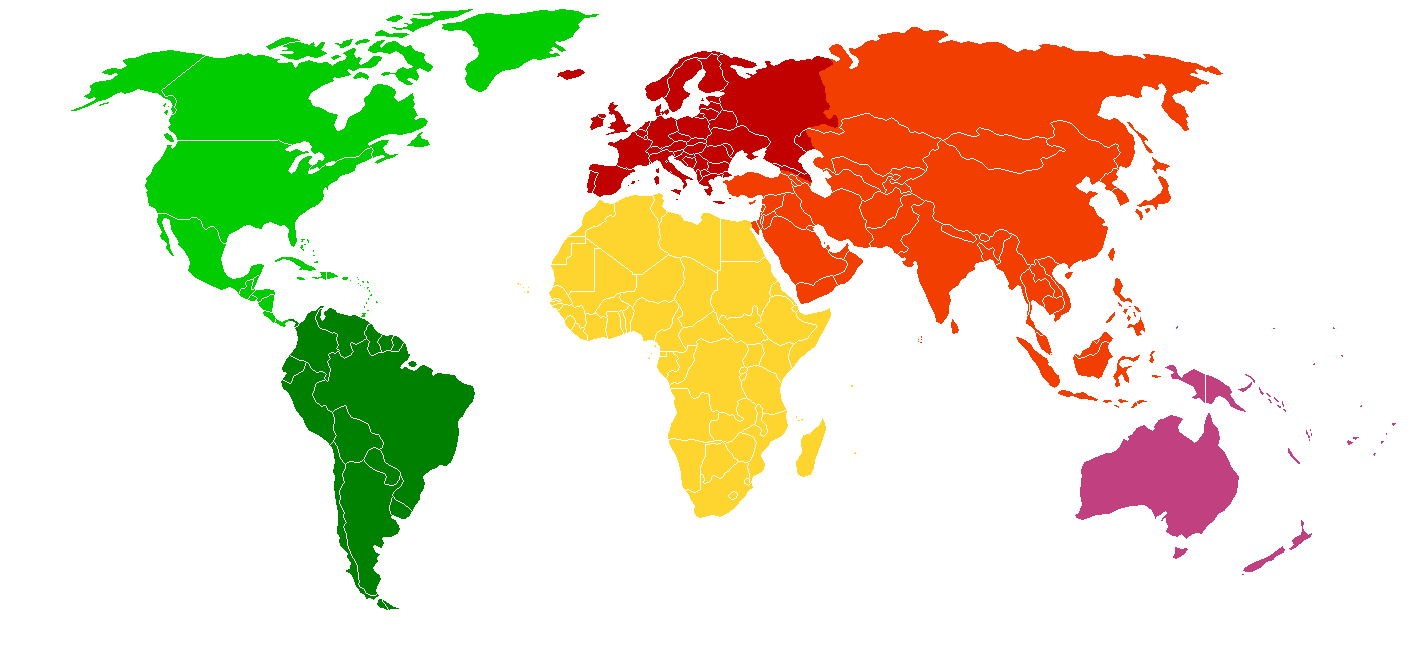
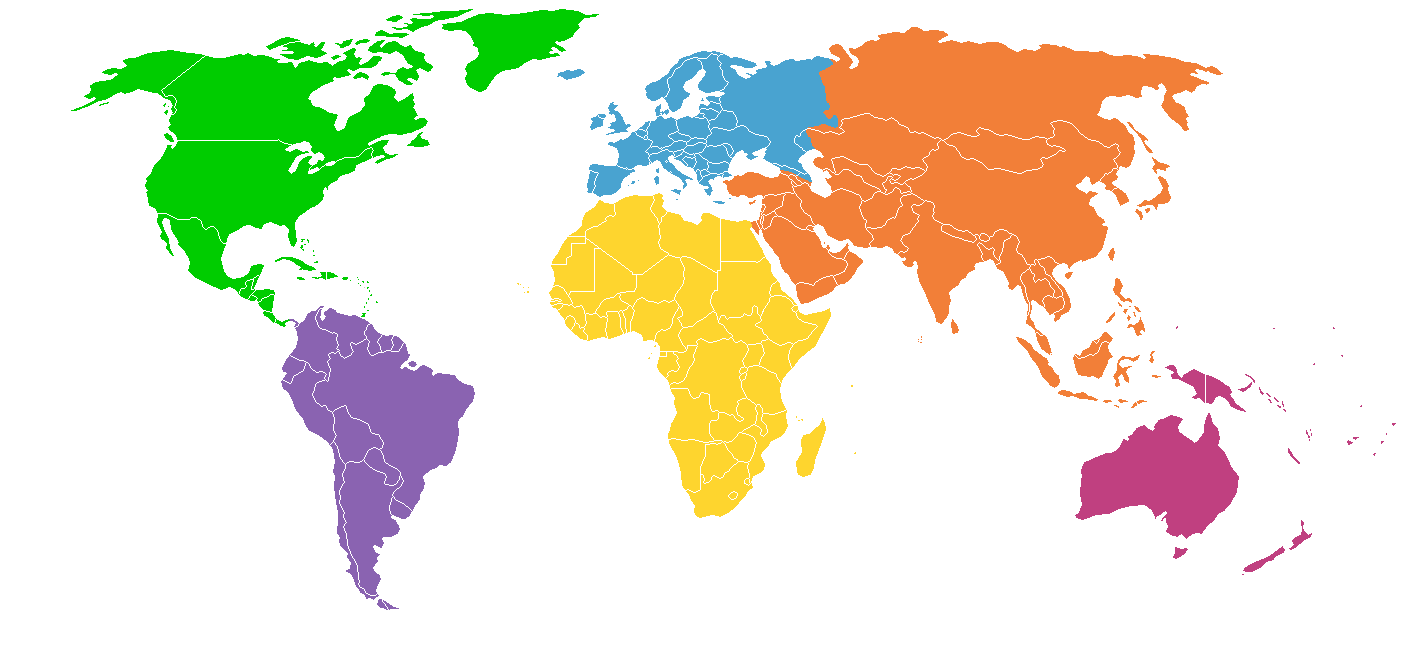
Dashboard responsible fixes

Changed region(s): [[0.4028, 0.0305, 0.8676, 0.6107], [0.1859, 0.458, 0.3408, 0.9466], [0.3718, 0.0916, 0.4028, 0.1221]]

diff --git a/index.html b/index.html
@@ -11,21 +11,29 @@
 </head>
 
 <body>
-  <nav>
-    <div class="nav nav-tabs" id="nav-tab" role="tablist">
+  <nav class="navbar bg-light">
+    <div class="container">
       <div class="logo" style="cursor: pointer;" onclick="window.location.reload()">
-        <img src="src/ui-ux/images/logo.png" alt="COVID Data Analyzing Logo">
+        <img src="src/ui-ux/images/logo.png" alt="COVID Monitor Logo">
         <span>COVID Monitor</span>
       </div>
-      <button class="nav-link active" id="nav-dashboard-tab" data-bs-toggle="tab" data-bs-target="#nav-dashboard"
-        type="button" role="tab" aria-controls="nav-dashboard" aria-selected="true"><i class="bi bi-activity"></i>
-        Dashboard</button>
-      <button class="nav-link" id="nav-history-tab" data-bs-toggle="tab" data-bs-target="#nav-history" type="button"
-        role="tab" aria-controls="nav-history" aria-selected="false"><i class="bi bi-clock-history"></i> History
-        Rates</button>
-      <button class="nav-link" id="nav-stat-tab" data-bs-toggle="tab" data-bs-target="#nav-stat" type="button"
-        role="tab" aria-controls="nav-stat" aria-selected="false"><i class="bi bi-bar-chart"></i> Statistics by
-        Countries</button>
+      <div class="nav nav-tabs d-inline-flex" id="nav-tab" role="tablist">
+        <button class="nav-link active" id="nav-dashboard-tab" data-bs-toggle="tab" data-bs-target="#nav-dashboard"
+          type="button" role="tab" aria-controls="nav-dashboard" aria-selected="true" title="Real-Time Dashboard">
+          <i class="bi bi-activity"></i>
+          <div> Dashboard</div>
+        </button>
+        <button class="nav-link" id="nav-history-tab" data-bs-toggle="tab" data-bs-target="#nav-history" type="button"
+          role="tab" aria-controls="nav-history" aria-selected="false" title="History Rates">
+          <i class="bi bi-clock-history"></i>
+          <div> History</div>
+        </button>
+        <button class="nav-link" id="nav-stat-tab" data-bs-toggle="tab" data-bs-target="#nav-stat" type="button"
+          role="tab" aria-controls="nav-stat" aria-selected="false" title="Statistics by Countries">
+          <i class="bi bi-bar-chart"></i>
+          <div> Statistics</div>
+        </button>
+      </div>
     </div>
   </nav>
 
@@ -47,12 +55,24 @@
             </tr>
           </thead>
           <tbody id="main-body" style="color: cornsilk; font-weight: bold;">
-            <tr id="europe" style="background-color: brown;"><td>Europe</td></tr>
-            <tr id="asia" style="background-color:orangered;"><td>Asia</td></tr>
-            <tr id="africa" style="background-color:gold;"><td>Africa</td></tr>
-            <tr id="north-america" style="background-color:limegreen;"><td>North America</td></tr>
-            <tr id="south-america" style="background-color: green;"><td>South America</td></tr>
-            <tr id="oceania" style="background-color:palevioletred;"><td>Oceania</td></tr>
+            <tr id="europe" style="background-color:rgb(111, 181, 250);">
+              <td>Europe</td>
+            </tr>
+            <tr id="asia" style="background-color:orange;">
+              <td>Asia</td>
+            </tr>
+            <tr id="africa" style="background-color:gold;">
+              <td>Africa</td>
+            </tr>
+            <tr id="north-america" style="background-color:limegreen;">
+              <td>North America</td>
+            </tr>
+            <tr id="south-america" style="background-color: rgb(218, 108, 218);">
+              <td>South America</td>
+            </tr>
+            <tr id="oceania" style="background-color:rgb(252, 160, 236);">
+              <td>Oceania</td>
+            </tr>
           </tbody>
         </table>
       </div>
@@ -61,7 +81,24 @@
       <form id="history-form">
         <div class="container">
           <div class="row">
-
+            <div class="col-sm">
+              <label class="form-label" for="dateFromHist">Date From: </label>
+              <input type="date" class="form-control" id="dateFromHist" name="fromDate">
+            </div>
+            <div class="col-sm">
+              <label class="form-label" for="dateToHist">Date To: </label>
+              <input type="date" class="form-control" id="dateToHist" name="toDate">
+            </div>
+            <div class="col-sm">
+              <label class="form-label" for="countriesNumHist">Countries Number: </label>
+              <select id="countriesNumHist" class="form-select">
+                <option value hidden disabled selected>--All countries--</option>
+              </select>
+            </div>
+            <div class="row">
+              <button class="col btn btn-outline-primary" type="submit">Show</button>
+              <button class="col btn btn-outline-secondary" type="reset">Reset</button>
+            </div>
           </div>
         </div>
       </form>
@@ -79,7 +116,23 @@
       <form id="stat-form">
         <div class="container">
           <div class="row">
-
+            <div class="col-sm">
+              <label class="form-label" for="dateFromHist">Date From: </label>
+              <input type="date" class="form-control" id="dateFromHist" name="fromDate">
+            </div>
+            <div class="col-sm">
+              <label class="form-label" for="dateToHist">Date To: </label>
+              <input type="date" class="form-control" id="dateToHist" name="toDate">
+            </div>
+            <div class="col-sm">
+              <label class="form-label" for="dateToHist">Countries: </label>
+              <select class="form-select" multiple aria-label="multiple select example">
+              </select>
+            </div>
+            <div class="row">
+              <button class="col btn btn-outline-primary" type="submit">Show</button>
+              <button class="col btn btn-outline-secondary" type="reset">Reset</button>
+            </div>
           </div>
         </div>
       </form>
@@ -95,7 +148,13 @@
     </div>
   </div>
 
-  <div></div>
+  <div class="navbar bg-light navbar-fixed-bottom">
+    <div class="container">
+      <a href="https://www.tel-ran.com/" style="text-decoration: none; color: crimson;">
+        2021 © Tel-Ran
+      </a>
+    </div>
+  </div>
 
   <script src="dist/bundle.js"></script>
 </body>
